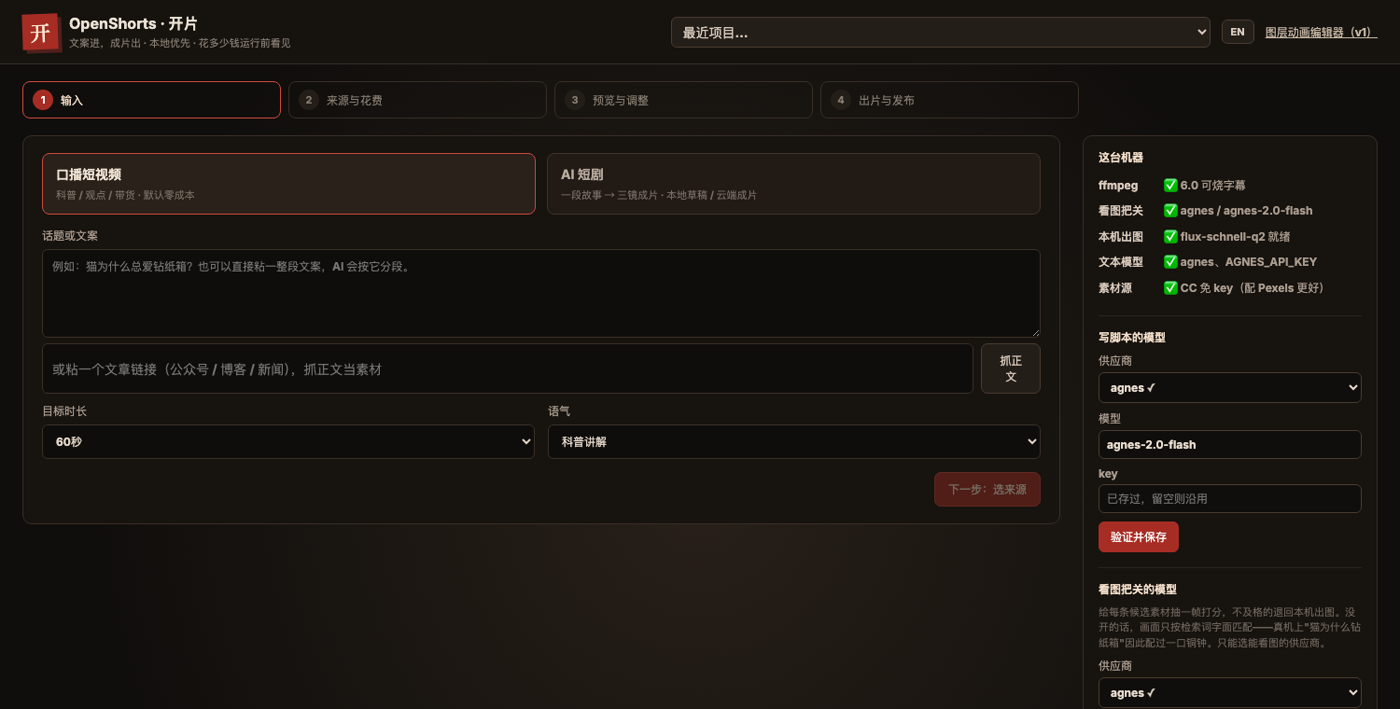
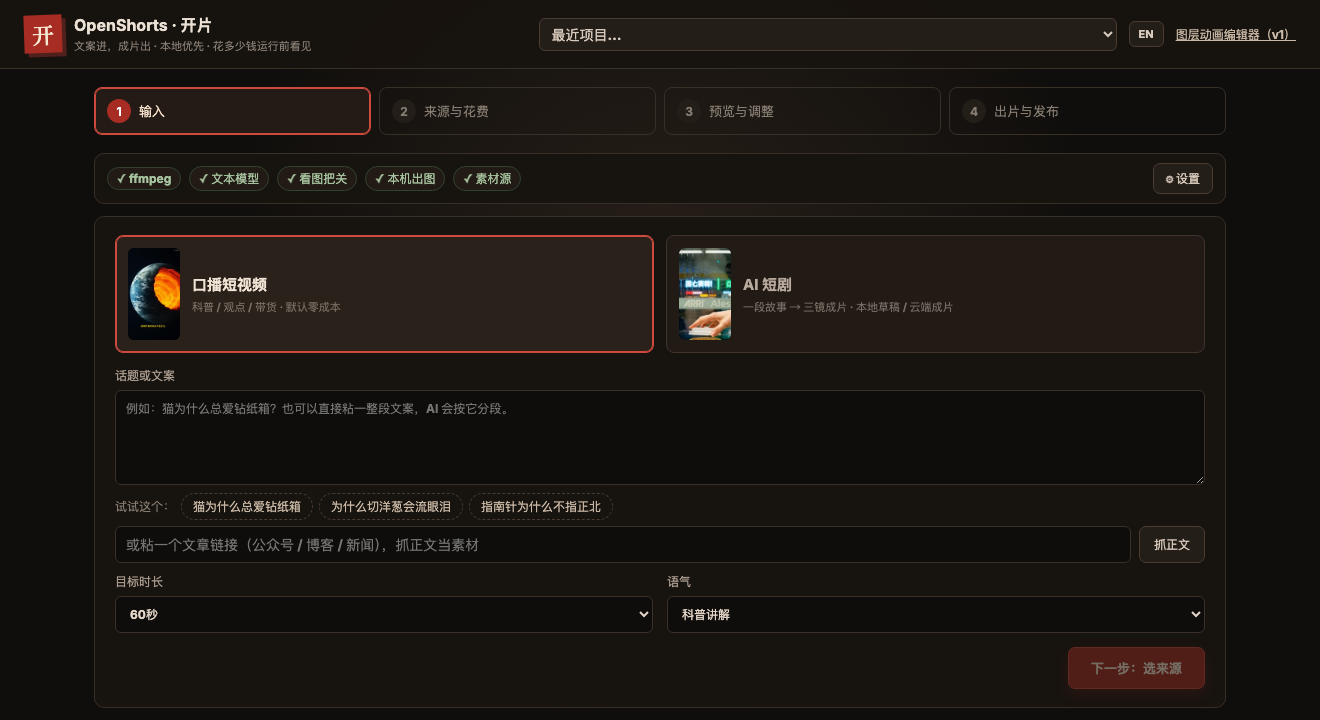
docs(readme): 界面截图两张一行,并全部换成新界面;英文 README 补上截图一节
三张截图还是**旧界面**(右侧常驻配置栏)——界面刚重做过,文档里展示的是已经不存在的东西。
全部用新界面重拍,并按要求排成两张一行:原来一张一行,纵向占了三屏多。

- 中文 README:四格表格(输入 / 预览与调整 / 出片与发布 / 质检说明),点图看大图。
  顺带改掉"右侧常驻栏回答…"这句——配置栏现在默认收起,那句话已经不成立。
- 英文 README **原来一张界面截图都没有**。补一节 What it looks like,
  用**英文界面**重拍(?lang=en),并说明 EN 开关与"打开英文项目时提示切界面"。

拍截图时又修了两处:
- openProject 里残留了我为截图临时改的 setStep(3)——**要是提交上去,所有已完成的项目
  打开都会掉回第 3 步**。补丁当时 count=1 命中的是 createProject 而不是它,才留下的。
- 英文界面里 `AI 标识：` 这个标签没走字典,是硬编码中文。已补进 i18n。

diff --git a/src/kaipian/Kaipian.tsx b/src/kaipian/Kaipian.tsx
@@ -215,7 +215,7 @@ export const Kaipian = () => {
     es.addEventListener('error', (e: any) => { try { setError(JSON.parse(e.data).m); } catch { setError(t('批量中断')); } es.close(); setBusy(''); });
   };
   const makePack = async () => { if (!project) return; setBusy(t('打发布包…')); try { setPack(await api(`/api/kaipian/projects/${encodeURIComponent(project.id)}/publish-pack`, {method: 'POST', body: JSON.stringify({platform, lang})})); } catch (e: any) { setError(e.message); } finally { setBusy(''); } };
-  const openProject = async (id: string) => { const p = await api<Project>(`/api/kaipian/projects/${encodeURIComponent(id)}`); setProject(p); setStep(3); };
+  const openProject = async (id: string) => { const p = await api<Project>(`/api/kaipian/projects/${encodeURIComponent(id)}`); setProject(p); setStep(p.final ? 4 : 3); };
   const copy = (t: string) => navigator.clipboard?.writeText(t);
 
   /**
@@ -540,7 +540,7 @@ export const Kaipian = () => {
           <p><b>{project.final.durationSec.toFixed(1)} {t('秒')}</b> · 1080×1920 · <a href={fileUrl(project, project.final.file)} download>{t('下载 mp4')}</a> · <a href={fileUrl(project, project.final.srt)} download>SRT</a>{project.final.cover && <> · <a href={fileUrl(project, project.final.cover)} download>{t('封面')}</a></>}</p>
           <h4>{t('标题（点复制）')}</h4><ul className="kp-copy">{project.publish.titles.map((t) => <li key={t} onClick={() => copy(t)}>{t}</li>)}</ul>
           <h4>{t('话题')}</h4><p className="kp-tags" onClick={() => copy(project.publish.tags.map((t) => `#${t}`).join(' '))}>{project.publish.tags.map((t) => `#${t}`).join(' ')}</p>
-          <h4>{t('发布说明')}</h4><p>{project.publish.note}<br/><small>AI 标识：{project.publish.aiLabelText}</small></p>
+          <h4>{t('发布说明')}</h4><p>{project.publish.note}<br/><small>{t('AI 标识：')}{project.publish.aiLabelText}</small></p>
           <div className="kp-two">
             {project.provenance.length > 0 && <div><h4>{t('素材署名')}</h4><ul className="kp-prov">{project.provenance.map((p) => <li key={p.shot}>{p.shot}: {p.source}{p.author ? ` · ${p.author}` : ''}{p.license ? `（${p.license}）` : ''}</li>)}</ul></div>}
             {project.final.quality && <div><h4>{t('质检')} {project.final.quality.pass ? t('✅ 通过') : t('⛔ 有问题')}{project.final.quality.warnings ? ` · ${project.final.quality.warnings}${t(' 条提醒')}` : ''}</h4><ul className="kp-prov">{project.final.quality.items.map((q) => <li key={q.id}>{q.status === 'pass' ? '✅' : q.status === 'warn' ? '⚠' : '⛔'} {q.msg}</li>)}</ul></div>}

diff --git a/src/kaipian/i18n.ts b/src/kaipian/i18n.ts
@@ -105,6 +105,7 @@ const EN: Record<string, string> = {
   '打发布包…': 'Building publish pack…', '抓取文章…': 'Fetching article…', '验证模型…': 'Testing model…', '批量出片中…': 'Batch rendering…',
   'ffmpeg 下载中断，可重试': 'ffmpeg download interrupted — retry', '出片中断': 'Rendering interrupted', '批量中断': 'Batch interrupted',
   '你有没有发现，猫为什么总爱钻纸箱？': 'Ever wondered why cats always squeeze into cardboard boxes?',
+  'AI 标识：': 'AI label: ',
   '出片时按检索词找': 'found by this query at render time', '设置': 'Settings', '收起': 'Collapse', '试试这个：': 'Try one: ',
   '出片中…': 'Rendering…', '重出': 'Redoing', '已取消（进度已存盘，再点出片会接着来）': 'Cancelled (progress saved — hitting Render again picks up where it stopped)',
   '本地出片中（每镜约 3–4 分钟，共 3 镜 + 定妆图）…': 'Rendering locally (~3–4 min per shot; 3 shots + the character sheet)…',

diff --git a/README.md b/README.md
@@ -47,29 +47,22 @@ npm run openshorts      # 起本地服务并打开浏览器（http://127.0.0.1:4
 
 ## 长什么样
 
-四步走完一条片：**输入 → 来源与花费 → 预览与调整 → 出片与发布**。右侧常驻栏回答"我这台机器现在能干什么"，
-模型也在那里配（写脚本的模型、看图把关的模型，存之前会拿它真发一次请求验一下）。
+四步走完一条片：**输入 → 来源与花费 → 预览与调整 → 出片与发布**。顶部一行状态回答"我这台机器现在能干什么"，
+模型配置收在「⚙ 设置」里（写脚本的模型、看图把关的模型，存之前会拿它真发一次请求验一下）。
 
-### ① 输入
-
-![输入](docs/assets/ui/input.png)
-
-给个话题，或直接粘一整段文案，也可以贴一个文章链接让它抓正文。目标时长和语气可选。
-
-### ③ 预览与调整——**每一镜都能改**
-
-![预览与调整](docs/assets/ui/edit.png)
-
-AI 拆出的每一镜都摊开给你：**口播文案**、**画面意图**、**英文检索词**，全都可以直接改。
-改完只重出那一镜——配音按"文案 + 音色 + 语速"的指纹复用，画面按素材指纹复用，没动过的镜头一秒都不重跑。
-
-### ④ 出片与发布
-
-![出片与发布](docs/assets/ui/final.png)
-
-成片、SRT、封面一次给全；标题点一下就复制；**每一条素材的作者与许可证都列出来**（CC BY-SA 要求的署名一条不少）；
-自动质检逐项报事实（分辨率 / 时长偏差 / 响度 / 字幕有没有烧进画面 / AI 标识 / 有几镜是本机生成的）；
-最后按平台规格打发布包——**不自动发布**，拖进后台由你决定。
+<table>
+<tr>
+<td width="50%" valign="top"><a href="docs/assets/ui/input.png"><img src="docs/assets/ui/input.png" alt="① 输入"></a><br>
+<b>① 输入</b><br><sub>给个话题，或直接粘一整段文案，也可以贴一个文章链接让它抓正文。目标时长和语气可选。</sub></td>
+<td width="50%" valign="top"><a href="docs/assets/ui/edit.png"><img src="docs/assets/ui/edit.png" alt="③ 预览与调整"></a><br>
+<b>③ 预览与调整——每一镜都能改</b><br><sub>每镜左边就是它<b>实际用的那张画面</b>；口播文案、画面意图、英文检索词都能直接改。改完只重出那一镜——配音按"文案 + 音色 + 语速"的指纹复用，没动过的镜头一秒都不重跑。</sub></td>
+</tr>
+<tr>
+<td width="50%" valign="top"><a href="docs/assets/ui/final.png"><img src="docs/assets/ui/final.png" alt="④ 出片与发布"></a><br>
+<b>④ 出片与发布</b><br><sub>成片、SRT、封面一次给全；标题点一下就复制；<b>每一条素材的作者与许可证都列出来</b>（CC BY-SA 要求的署名一条不少）。</sub></td>
+<td width="50%" valign="top"><br><b>质检逐项报事实</b><br><sub>分辨率 / 时长偏差 / 响度 / 字幕有没有烧进画面 / AI 标识 / 有几镜是本机生成的、有几镜经过看图把关——<b>只报事实，不替你下结论</b>。最后按平台规格打发布包：<b>不自动发布</b>，拖进后台由你决定。</sub></td>
+</tr>
+</table>
 
 ## 为什么选开片（和 MoneyPrinterTurbo 们的区别）
 

diff --git a/README.en.md b/README.en.md
@@ -62,6 +62,24 @@ Requires Node.js 20+ and FFmpeg (an npm package is coming; until then use the so
 | Attribution | Per-shot source / author / license / URL, auto-appended to publish copy; AI-generated frames labeled |
 | Knowing cost upfront | Quotes by provider / tier / seconds before running; the free path's `estimate` reports *time*, since money is always zero |
 
+## What it looks like
+
+Four steps to a video: **Input → Sources & cost → Preview & adjust → Render & publish**. A single row at the
+top answers "what can this machine do right now"; model configuration lives behind **⚙ Settings**
+(the script model and the visual-check model — both are tested with a real request before they are saved).
+
+<table>
+<tr>
+<td width="50%" valign="top"><a href="docs/assets/ui/en-input.png"><img src="docs/assets/ui/en-input.png" alt="Input"></a><br>
+<b>① Input</b><br><sub>Give it a topic, paste a whole script, or drop in an article link and let it fetch the text. Target length and tone are optional.</sub></td>
+<td width="50%" valign="top"><a href="docs/assets/ui/en-final.png"><img src="docs/assets/ui/en-final.png" alt="Render & publish"></a><br>
+<b>④ Render &amp; publish</b><br><sub>Video, SRT and cover in one go; click a title to copy it; <b>every clip's author and licence is listed</b> (CC BY-SA requires the credit). The quality check states facts only — resolution, length drift, loudness, whether subtitles were burned in, the AI label, how many shots were generated locally and how many were vetted by the visual check. Then it builds a publish pack per platform — <b>it never auto-posts</b>.</sub></td>
+</tr>
+</table>
+
+> The interface has an English toggle (**EN** in the top bar, or open with `?lang=en`). Open an English
+> project while the interface is Chinese and it offers to switch for you.
+
 ## Real output
 
 | Video | Pipeline | Length | Case study |
